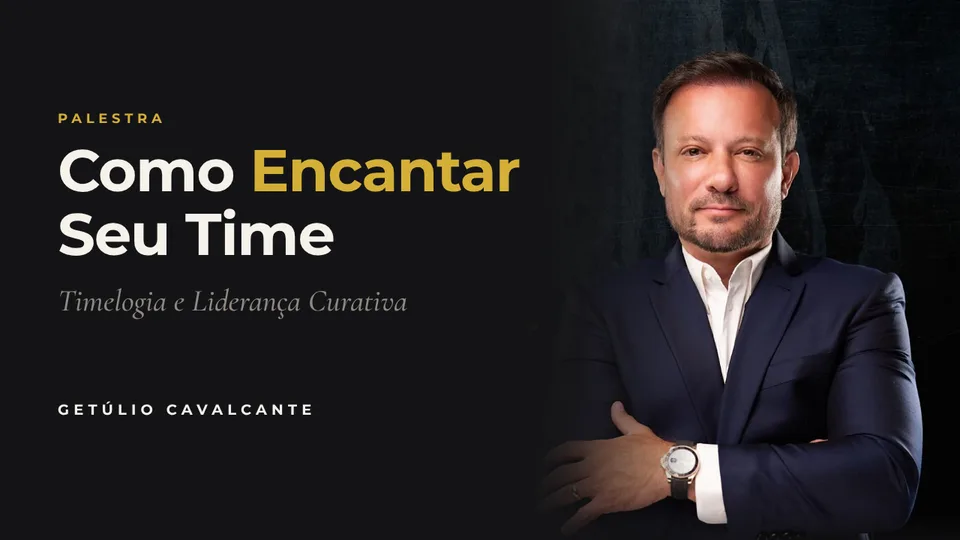
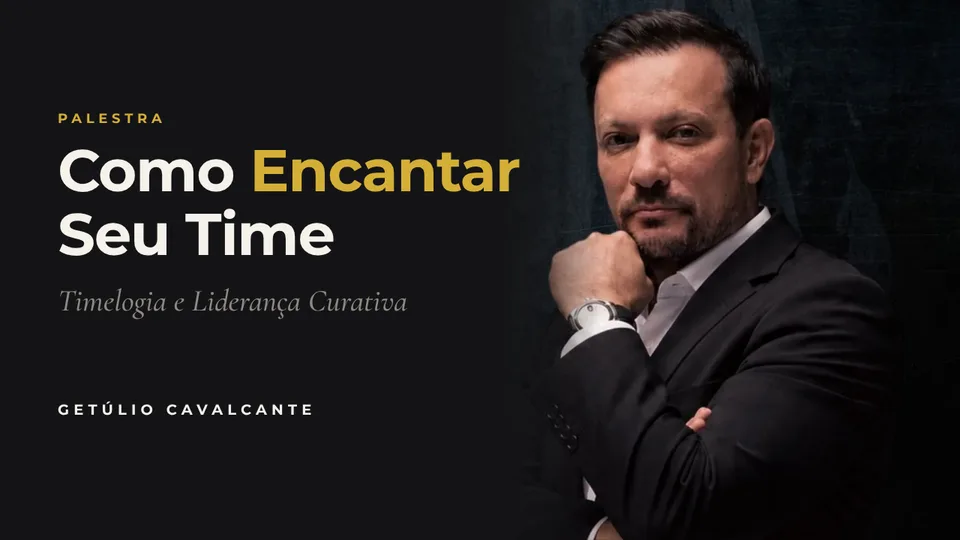
Pós-ativação: capas da nova original e da 2025 arquivada, tempos da raiz 2026 (80 min), Ativar apaga também a capa do rascunho
Claude-Session: https://claude.ai/code/session_01B1bgw9zXqu2hXUc1pVTdQ7

Changed region(s): [[0.5625, 0.0, 0.9688, 1.0]]

diff --git a/publicar/apresentacoes/index.html b/publicar/apresentacoes/index.html
@@ -130,7 +130,7 @@ body.ras .bar{display:none}
 </div>
 
 <script>
[2 lines of base64/hex data omitted]
 const DATA = ALL.filter(c => !c.rascunho), RAS = ALL.filter(c => c.rascunho);
 const CAT = { original: 'Original', empresa: 'Empresas', igreja: 'Igrejas', evento: 'Eventos' };
 const CAT1 = { original: 'ORIGINAL', empresa: 'EMPRESA', igreja: 'IGREJA', evento: 'EVENTO' };

diff --git a/functions/_middleware.js b/functions/_middleware.js
@@ -72,6 +72,7 @@ async function ativar(env, slug) {
     if (alvo === 'original') novo.evento = 'Palestra original';
     arquivos.push({ path: 'edicoes/' + alvo + '/edicao.json', content: txt(novo) });
     arquivos.push({ path: 'edicoes/' + slug + '/edicao.json', sha: null });
+    try { await gh(env, '/contents/edicoes/' + slug + '/capa.webp?ref=' + BR); arquivos.push({ path: 'edicoes/' + slug + '/capa.webp', sha: null }); } catch (e) {}
     msg = 'Ativa rascunho ' + slug + ': vira "' + alvo + '"; versão anterior arquivada como ' + arq.slug;
   } else {
     arquivos.push({ path: 'edicoes/' + slug + '/edicao.json', content: txt(novo) });
